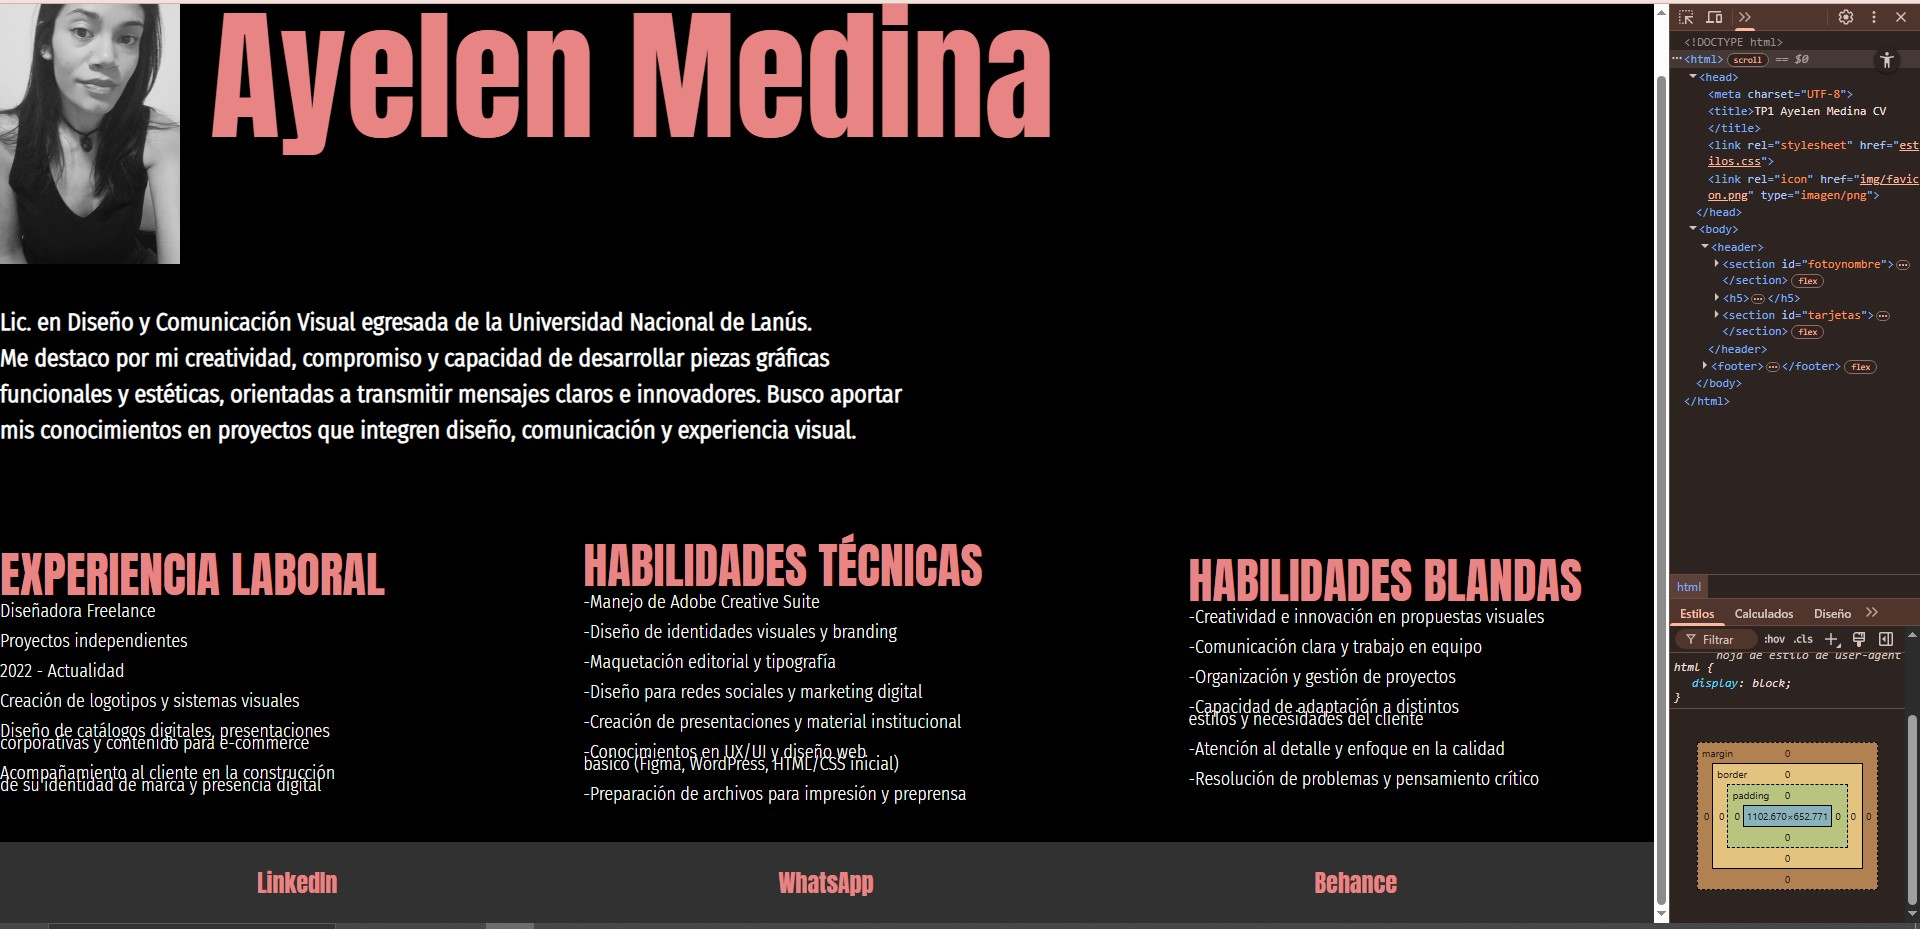
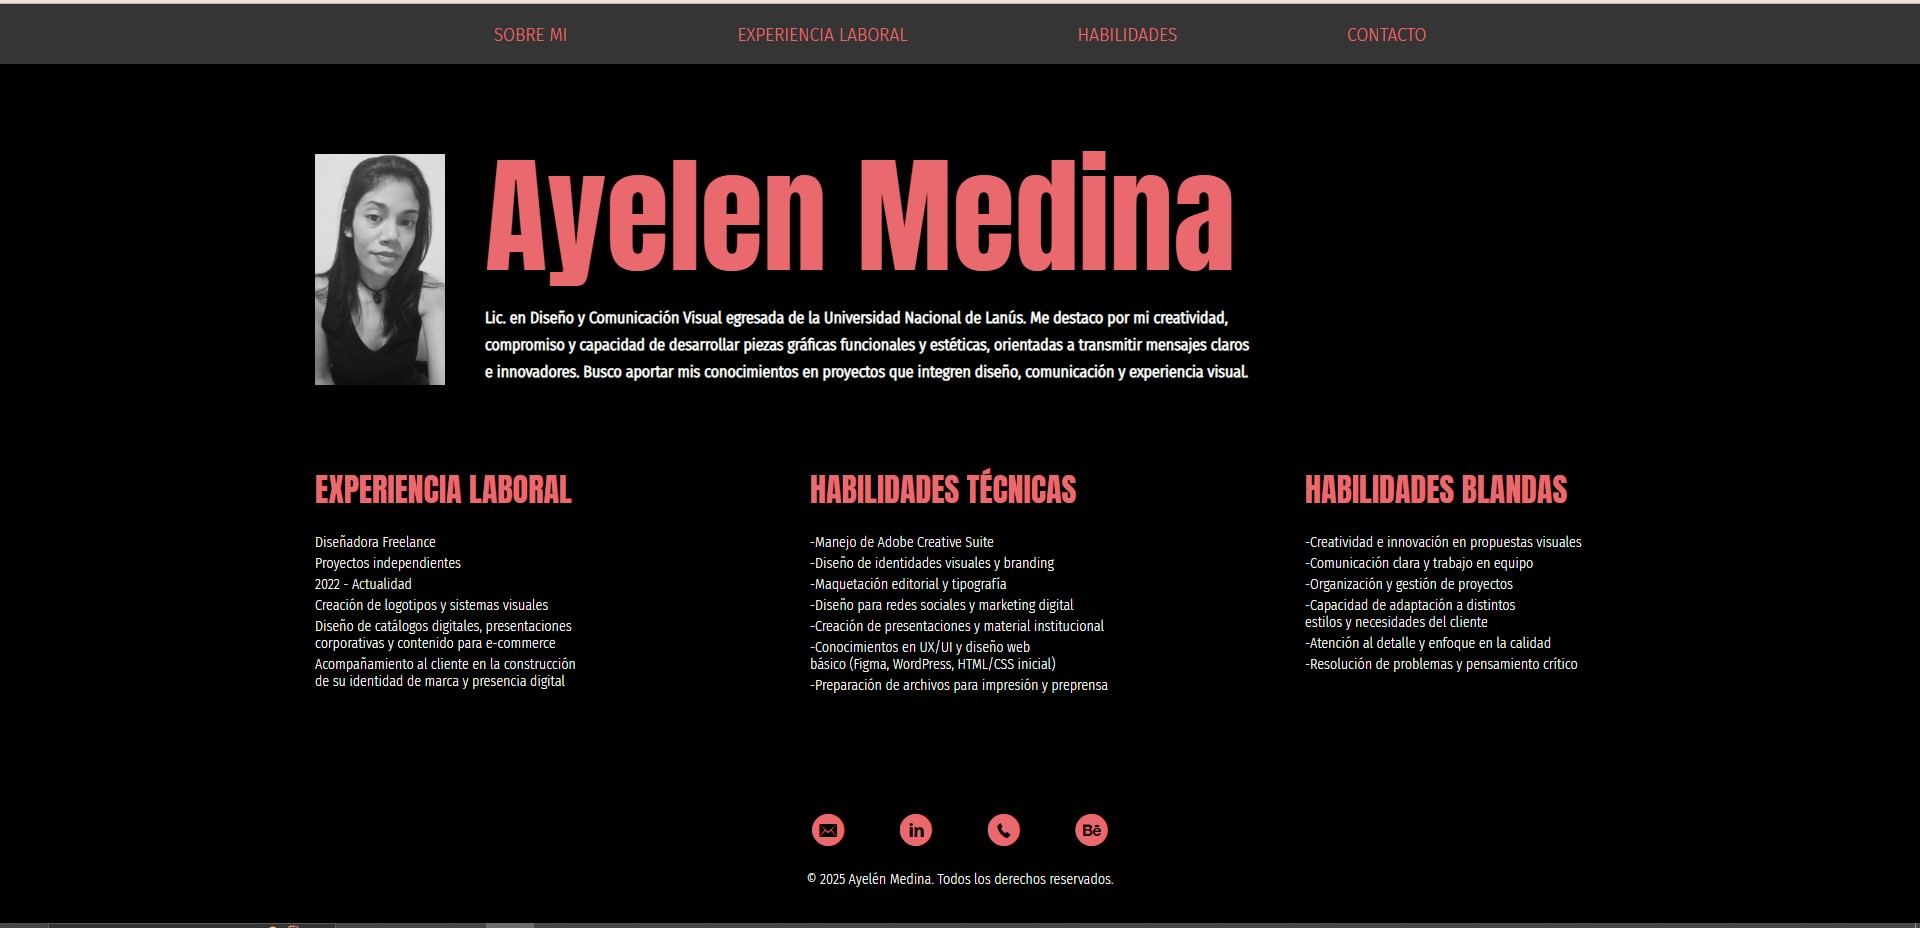
entrega

diff --git a/estilos.css b/estilos.css
@@ -3,21 +3,23 @@
 
 @font-face {
   font-family: "anton-regular";
-  src: url(fuentes/anton-regular.ttf) format("truetype");
+  src: url(fuentes/anton-regular.ttf) format(truetype);
   font-weight: bold;
   font-style: normal;
 }
 
 @font-face {
   font-family: "fira-sans-condensed-light";
-  src: url(fuentes/fira-sans-condensed-light.ttf) format("truetype");
+  src: url(fuentes/fira-sans-condensed-light.ttf) format(truetype);
   font-weight: lighter;
   font-style: normal;
 }
 
 @font-face {
   font-family: "social-media-circled";
-  src: url(fuentes/social-media-circled.ttf) format("truetype");
+  src: url(fuentes/social-media-circled.ttf) format(truetype);
+  font-weight: bold;
+  font-style: normal;
 }
 
 * {
